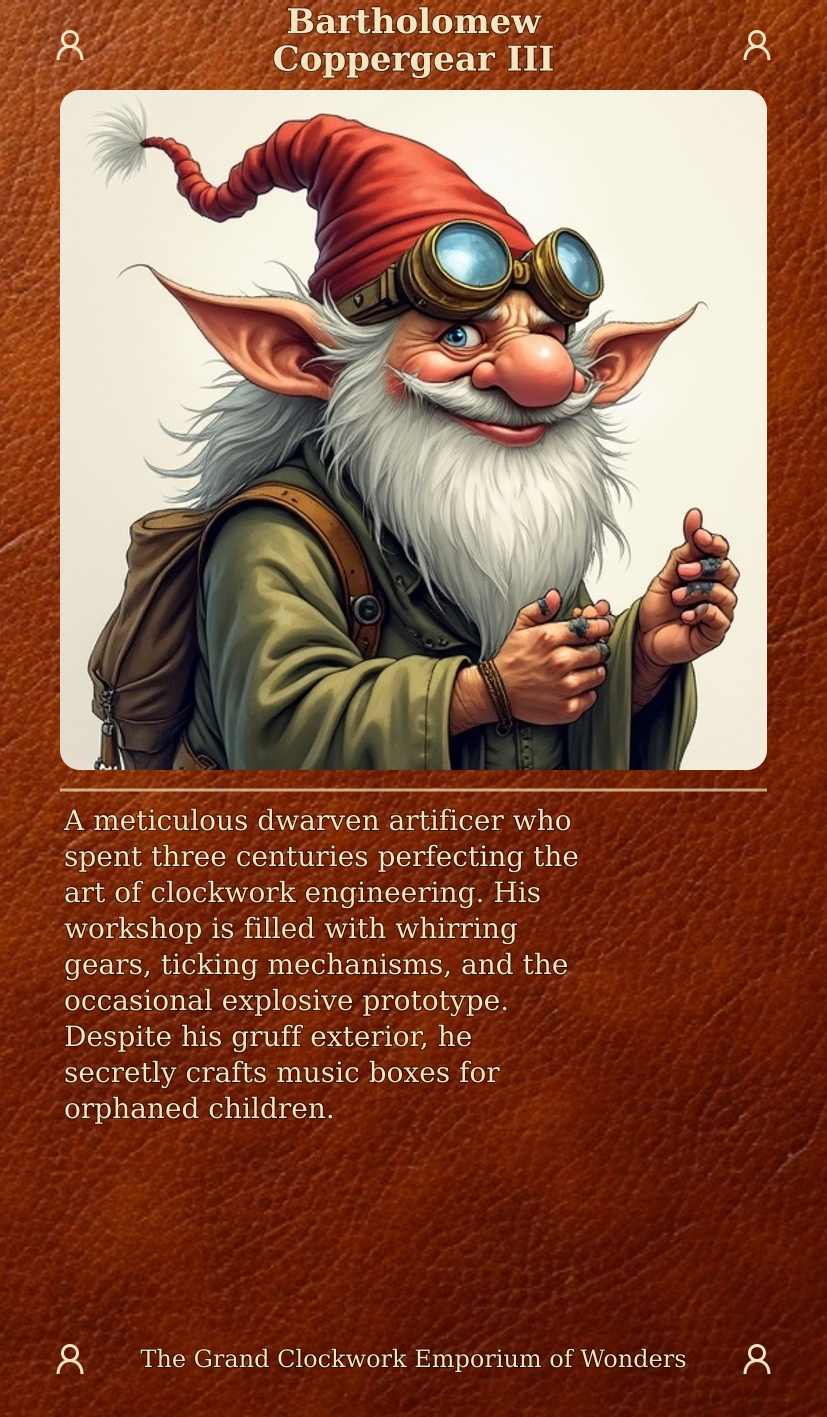
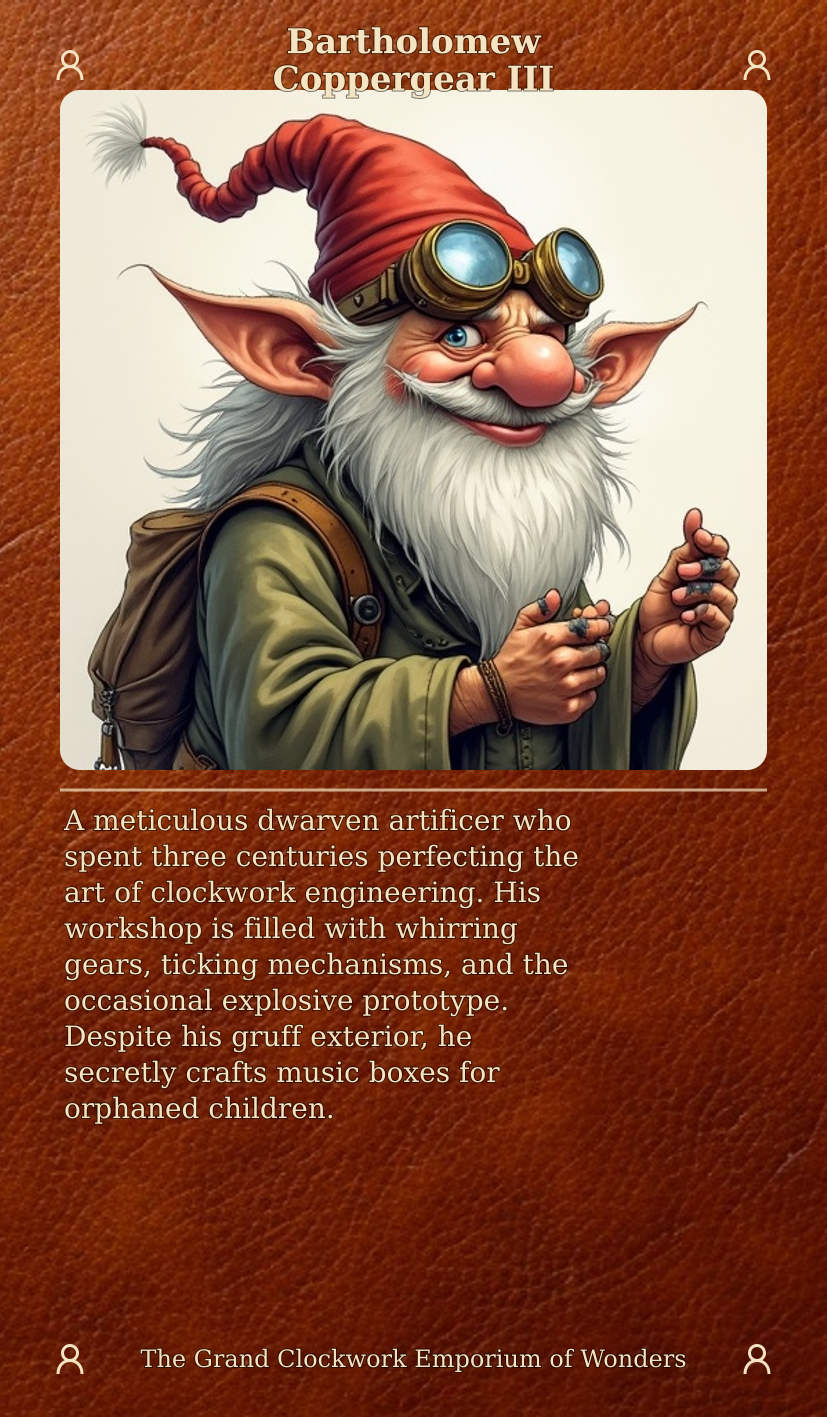
Add uniform margins on all four sides (B=40px)
Header icons and title now respect top margin B, matching the
side margins. This creates print-safe space on all edges.

- Icons: centered in (B to headerH) instead of (0 to headerH)
- Title: centered in same safe region
- Footer already respected bottom margin

Changed region(s): [[0.3325, 0.0, 0.6651, 0.0932], [0.8767, 0.0, 0.9371, 0.0621], [0.0605, 0.0311, 0.1209, 0.0621]]

diff --git a/packages/card-generator/scripts/generate-all-variants.js b/packages/card-generator/scripts/generate-all-variants.js
@@ -106,6 +106,7 @@ async function render(svg, portraitPath, outputPath, pX, pY, pW, pH, texturePath
 // Options for text area: tint (none, dark, leather), border (none, line, decorative)
 // Options for portrait: border (none, line), corners (square, rounded)
 function textureOverlaySvg(opts = {}) {
+  // B is the uniform margin on all four sides (print safety)
   const headerH = opts.headerH || 90;
   const portraitH = opts.portraitH || 680;
   const textColor = '#f4e4c1';
@@ -198,7 +199,8 @@ function textureOverlaySvg(opts = {}) {
   const portraitW = W - B * 2 - portraitPadding * 2;
   const portraitX = B + portraitPadding;
 
-  const iconY = (headerH - 36) / 2;
+  // Header icons positioned with top margin B
+  const iconY = B + (headerH - B - 36) / 2; // Centered in header area below top margin
   const icons = showIcons ? `
     <g transform="translate(${B + 12}, ${iconY})">${iconSvg}</g>
     <g transform="translate(${W - B - 48}, ${iconY})">${iconSvg}</g>
@@ -280,10 +282,12 @@ function textureOverlaySvg(opts = {}) {
     </defs>`;
   }
 
-  // Generate title SVG (1 or 2 lines, vertically centered in header)
+  // Generate title SVG (1 or 2 lines, vertically centered in header safe area)
+  // Header safe area: y = B to y = headerH (respects top margin)
   const titleLineHeight = autoTitleSize * 1.1;
   const titleBlockHeight = titleLines.length * titleLineHeight;
-  const titleStartY = headerH/2 - titleBlockHeight/2 + autoTitleSize * 0.75;
+  const headerCenter = (B + headerH) / 2; // Center of safe header area
+  const titleStartY = headerCenter - titleBlockHeight/2 + autoTitleSize * 0.75;
   const titleSvg = titleLines.map((line, i) =>
     `<text x="${W/2}" y="${titleStartY + i * titleLineHeight}" font-family="${fontFamily}" font-size="${autoTitleSize}" font-weight="bold" fill="${textColor}" text-anchor="middle" ${textStroke}>${esc(line)}</text>`
   ).join('\n    ');
